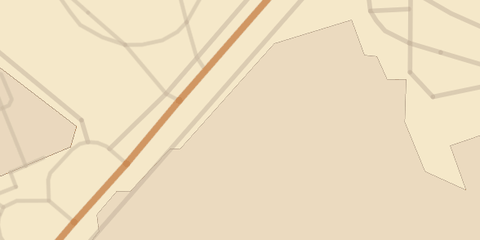
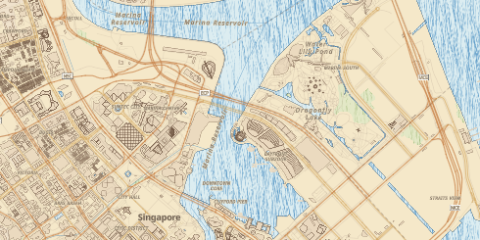
feat(maps): watercolour style thumbnail recaptured at Marina Bay z15.5 (CG-viewport downscale)
Thumbnails are now the CG viewport downscaled to 480x240, not a 1:1
centre crop of the still. Only watercolour is recaptured; the other nine
follow once this one is approved.

diff --git a/dashboard/src/maps/styles.ts b/dashboard/src/maps/styles.ts
@@ -48,7 +48,7 @@ export const STYLE_SWATCHES: { id: MapsStyleId; label: string; color: string }[]
   { id: "watercolour", label: "Watercolour", color: "#f1e5cb" },
 ];
 
-export const STYLE_THUMB_CAMERA = { lat: 1.2864, lon: 103.8604, zoom: 16.5, pitch: 0, bearing: 75, cgShiftX: 0 } as const;
+export const STYLE_THUMB_CAMERA = { lat: 1.2864, lon: 103.8604, zoom: 15.5, pitch: 0, bearing: 75, cgShiftX: 0 } as const;
 
 const TONER_LINES_WIDTH_FACTOR = 0.55;
 

diff --git a/dashboard/src/maps/STYLE_THUMBS.md b/dashboard/src/maps/STYLE_THUMBS.md
@@ -1,11 +1,14 @@
 # Style picker thumbnails
 
-Every file under `dashboard/public/style-thumbs/` is a 480×240 centre crop of a Maps tab still, all captured at the same camera (`STYLE_THUMB_CAMERA` in `styles.ts`): Marina Bay, `lat 1.2864, lon 103.8604`, zoom 16.5, pitch 0, bearing 75, CG shift X 0.
+Every file under `dashboard/public/style-thumbs/` should be the CG viewport (the 1920×1080 centre box of the wall) downscaled to 480×240 — a 2:1 crop of the CG box's full height, centred, not a 1:1 centre crop of the still (that read two zoom levels tighter than the camera). Camera (`STYLE_THUMB_CAMERA` in `styles.ts`): Marina Bay, `lat 1.2864, lon 103.8604`, zoom 15.5, pitch 0, bearing 75, CG shift X 0.
+
+Only `watercolour.png` has been recaptured this way so far; the other nine are still old downtown z16.7 crops.
 
 ## Recapture recipe
 
-1. `cd dashboard && npm run dev`, open the Maps tab, **New map deck**.
+1. `cd dashboard && npm run dev`, open the Maps tab, **New map deck** — never the production deck.
 2. Type `@1.2864,103.8604` in the search box (accepts `@lat,lng`).
-3. In the inspector set Zoom `16.5`, Pitch `0`, Bearing `75`, and CG shift X `0`.
-4. For each id in `STYLE_SWATCHES`, pick it in the style picker, let the still settle, and take the captured LW still from `output/.maps/<job>/`.
-5. Centre-crop to 480×240 and overwrite `dashboard/public/style-thumbs/<id>.png`. `buildings3d` reuses the Liberty capture — at z16.5/pitch 0 no 3D buildings are visible, so keep the shared file unless that changes.
+3. In the inspector set Zoom `15.5`, Pitch `0`, Bearing `75`, and CG shift X `0`.
+4. Pick a style, wait for tiles to settle.
+5. Either grab the maplibre canvas via devtools and `drawImage` the CG box (full band height, 2:1 width centred on the box) onto a 480×240 canvas and save, or export a CG still and downscale it to 480×240 for a crisper result.
+6. Overwrite `dashboard/public/style-thumbs/<id>.png`.
